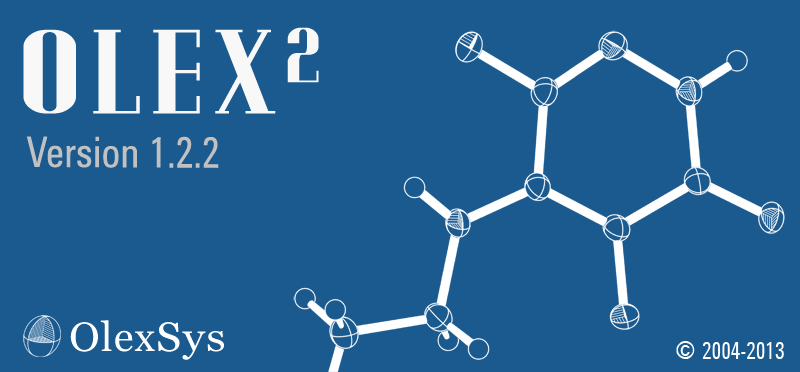
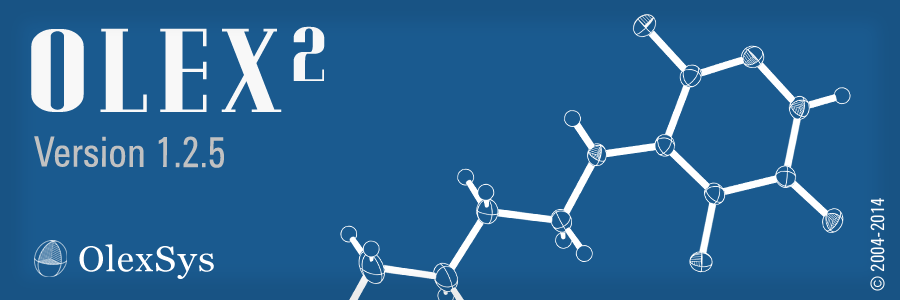
update news image, highlight bits of text in the extension modules thing

diff --git a/util/pyUtil/misc/Loader.py b/util/pyUtil/misc/Loader.py
@@ -58,7 +58,7 @@ def getModule(name, email=None):
       etoken = f
     except Exception, e:
       msg = '''
-An error occurred while downloading the extension.<br>%s<br>Please restart Olex2 and try again.
+<font color='red'><b>An error occurred while downloading the extension.</b></font><br>%s<br>Please restart Olex2 and try again.
 ''' %(str(e))
       if debug:
         sys.stdout.formatExceptionInfo()
@@ -86,7 +86,7 @@ An error occurred while downloading the extension.<br>%s<br>Please restart Olex2
       old_folder = new_name
     except Exception, e:
       msg = '''
-An error occurred while installing the extension.<br>%s<br>Please restart Olex2 and try again.
+<font color='red'><b>An error occurred while installing the extension.</b></font><br>%s<br>Please restart Olex2 and try again.
 ''' %(str(e))
       olex.writeImage(info_file_name, msg, 0)
       return False
@@ -109,9 +109,9 @@ An error occurred while installing the extension.<br>%s<br>Please restart Olex2 
     else:
       zp = ZipFile(StringIO(f))
       zp.extractall(path=dir)
-      msg = "Module %s has been successfully installed/updated" %name
-      msg += "<br>You have 30 days to evaluate this extension module."
-      msg += "<br>Please restart Olex2 to activate the extension module."
+      msg = "Module <b>%s</b> has been successfully installed/updated" %name
+      msg += "<br>You have 30 days to evaluate this extension module. Please contact us for further information."
+      msg += "<br><font color='green'><b><Please restart Olex2 to activate the extension module.</b></font>"
       olex.writeImage(info_file_name, msg, 0)
       global available_modules
       if current_module:
@@ -127,7 +127,7 @@ An error occurred while installing the extension.<br>%s<br>Please restart Olex2 
       return True
   except Exception, e:
     msg = '''
-An error occurred while installing the extension.<br>%s<br>Please restart Olex2 and try again.
+<font color='red'><b>An error occurred while installing the extension.</b></font><br>%s<br>Please restart Olex2 and try again.
 ''' %(str(e))
     olex.writeImage(info_file_name, msg, 0)
     return False
@@ -154,7 +154,9 @@ def loadAll():
     except Exception, e:
       global failed_modules
       failed_modules[d] = str(e)
-      print("Error occurred while loading module: %s" %d)
+      if debug:
+        sys.stdout.formatExceptionInfo()
+        print("Error occurred while loading module: %s" %d)
   getAvailableModules() #thread
   if olx.HasGUI() == 'true':
     olx.Schedule(2, "spy.plugins.AskToUpdate()", g=True)
@@ -326,7 +328,7 @@ def getInfo():
     return ""
   preambula = ""
   if current_module.action == 3:
-    preambula = "This module has <b>expired</b>, please either re-install it or contact"+\
+    preambula = "<font color='red'>This module has <b>expired</b></font>, please either re-install it or contact"+\
       " <a href='shell(mailto:enquiries@olexsys.org?subject=Olex2%20extensions%20licence)'>"+\
       "OlexSys Ltd</a> to extend the licence.<br>"
   return preambula + "<a href='shell %s'>Module URL: </a> %s<br>%s"\
